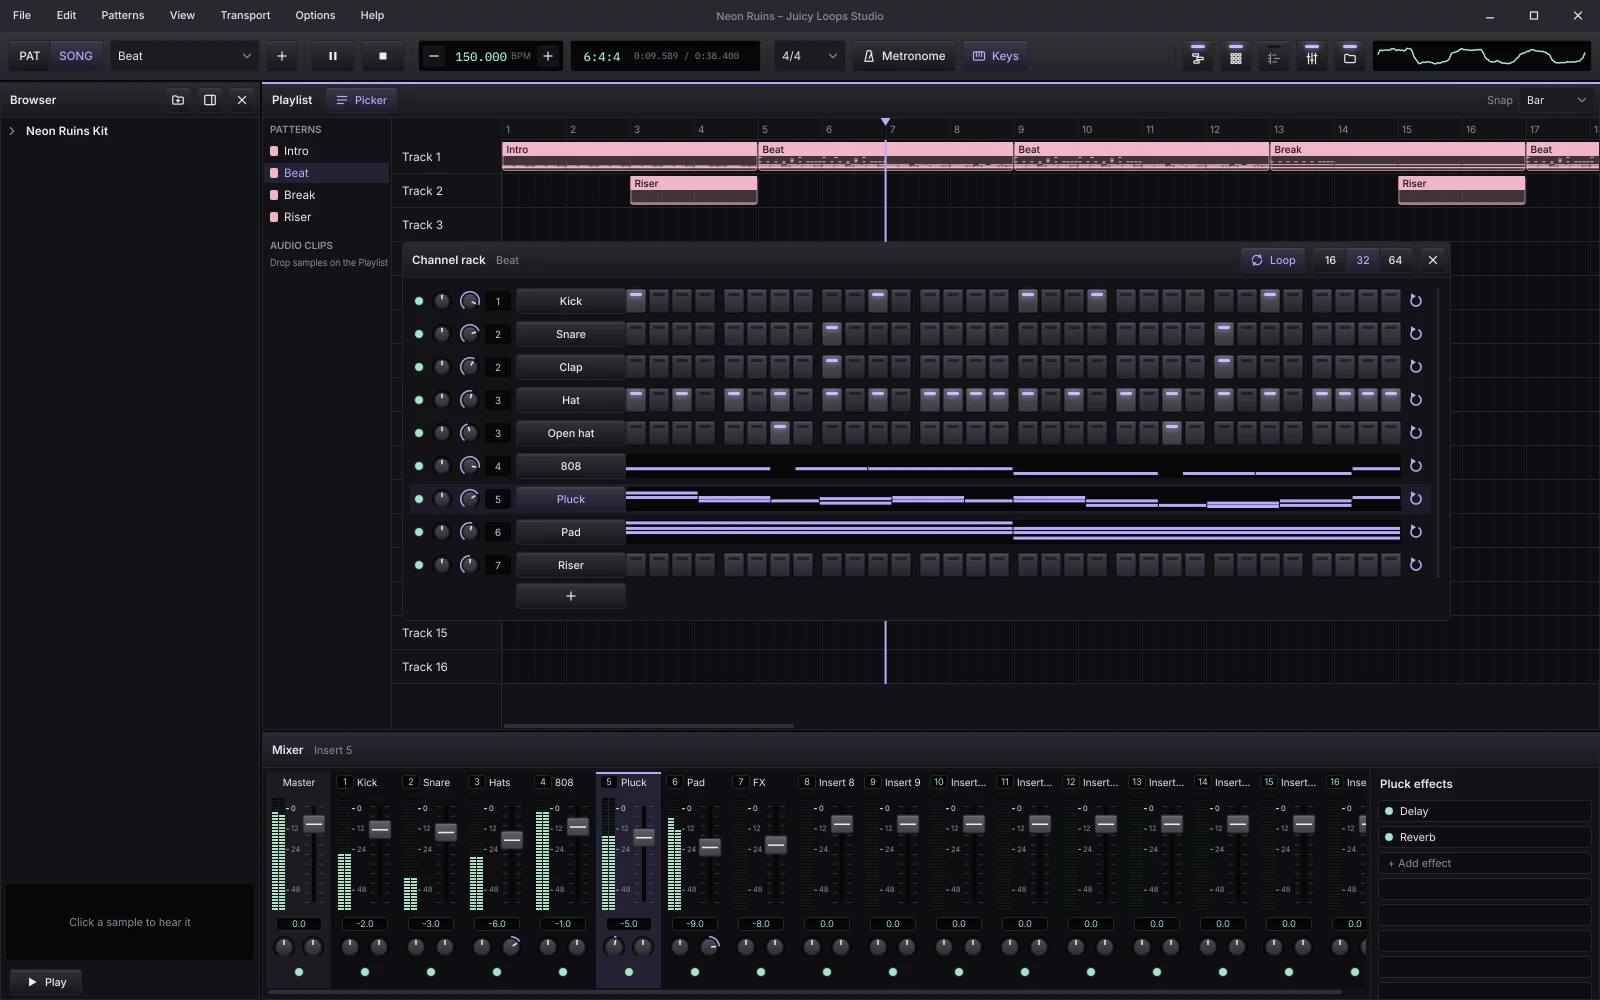
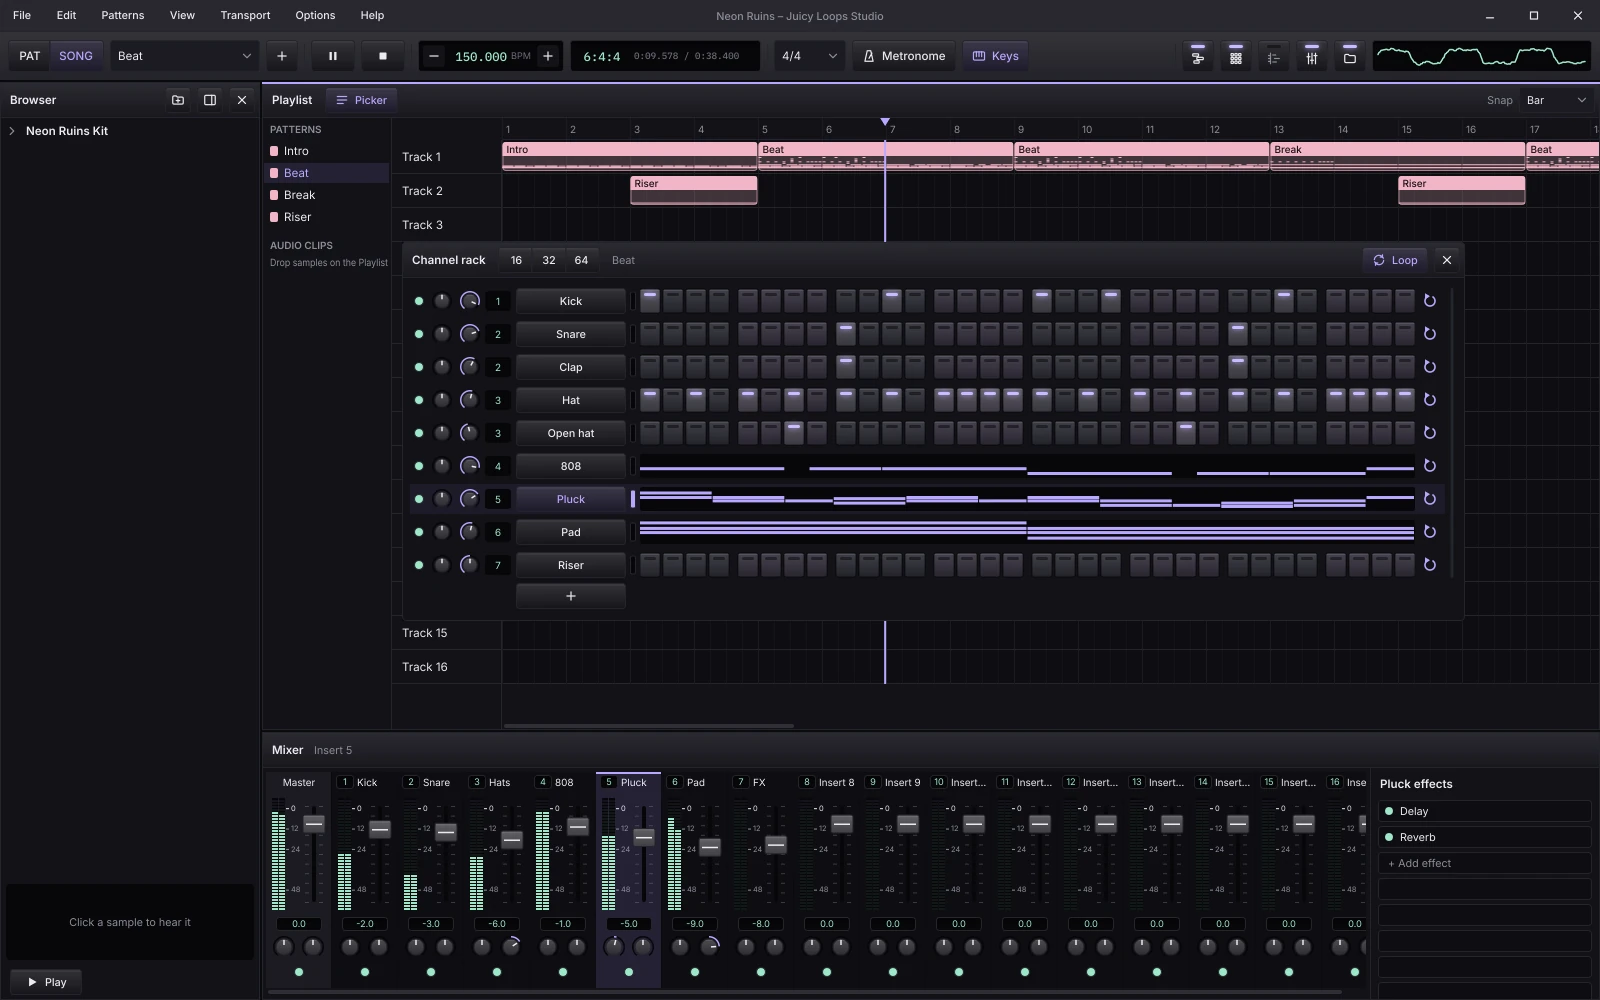
Channel Rack selection light, one-shot 16 | 32 | 64, clip outline over its name
The name buttons ran straight into the steps. As in FL, each row now has a thin light between
them, lit on the selected channel; clicking it selects the channel without opening its window.

16 | 32 | 64 no longer stay lit (the length handle sets any length, so a lit button was often
wrong) and moved to the left of the title bar, after "Channel rack", as the Piano Roll's scale
controls do. On a rack wider than the window, the title and those buttons stay in view like the
right-hand ones.

A selected Playlist clip's outline is drawn last, around its name bar too, so the bar no longer
looks pasted on top; the bar's top corners are rounded like the clip.

Screenshots retaken; AGENTS.md and docs/development.md now say every UI change retakes them.

Changed region(s): [[0.375, 0.248, 0.9062, 0.589], [0.875, 0.031, 0.9688, 0.062]]

diff --git a/src/ui/channel_rack.cpp b/src/ui/channel_rack.cpp
@@ -26,15 +26,44 @@ constexpr int handleWidth = 12; // the length handle after the last step column
 constexpr int stepMargin = 3;   // above and below the step keys (and a note preview)
 
 // A row, left to right (see ChannelRow::resized): mute LED, pan and volume knobs, mixer track,
-// name, loop switch, steps.
-constexpr int columnGap = 4;  // after the LED, each knob and the mixer track
-constexpr int loopWidth = 30; // a row's loop switch, after the steps, with room around it
+// name, selection light, steps, loop switch.
+constexpr int columnGap = 4;       // after the LED, each knob and the mixer track
+constexpr int selectionWidth = 14; // the selection light with room on both sides
+constexpr int loopWidth = 30;      // a row's loop switch, after the steps, with room around it
 constexpr int nameX = metrics::ledWidth + columnGap + 2 * (metrics::knobSize + columnGap) +
                       metrics::insertWidth + columnGap;
 // Everything in a row except the steps.
-constexpr int rowFixedWidth = nameX + metrics::nameWidth + loopWidth;
+constexpr int rowFixedWidth = nameX + metrics::nameWidth + selectionWidth + loopWidth;
 
 } // namespace
+
+// ------------------------------------------------------------------------------- SelectionLed
+
+void SelectionLed::setOn(bool shouldBeOn)
+{
+    if (on != shouldBeOn)
+    {
+        on = shouldBeOn;
+        repaint();
+    }
+}
+
+void SelectionLed::paint(juce::Graphics& g)
+{
+    const auto& c = currentTheme().colours;
+    const auto led = getLocalBounds().toFloat().withSizeKeepingCentre(5.0f, 18.0f);
+    // Unlit, a dark recessed lamp with a rim, like the mute light.
+    g.setColour(colour(on ? c.accent : c.display));
+    g.fillRoundedRectangle(led, 1.5f);
+    g.setColour(colour(on ? c.outline : c.ledOff));
+    g.drawRoundedRectangle(led, 1.5f, 1.0f);
+}
+
+void SelectionLed::mouseDown(const juce::MouseEvent&)
+{
+    if (onClick)
+        onClick();
+}
 
 // ---------------------------------------------------------------------------------- InsertBox
 
@@ -375,6 +404,7 @@ ChannelRow::ChannelRow(ChannelRack& owner, model::ChannelId channel) : rack(owne
     setUpKnobs();
     setUpInsert();
     setUpName();
+    setUpSelectionLed();
     setUpLoop();
     setUpSteps();
 }
@@ -470,6 +500,14 @@ void ChannelRow::setUpName()
     addAndMakeVisible(name);
 }
 
+void ChannelRow::setUpSelectionLed()
+{
+    selectionLed.setTooltip("Selected channel: the Piano Roll edits it, the Browser loads into it. "
+                            "Click to select");
+    selectionLed.onClick = [this] { rack.select(id); };
+    addAndMakeVisible(selectionLed);
+}
+
 void ChannelRow::setUpLoop()
 {
     loop.setTooltip("Loop this channel: repeat its notes when the pattern is longer");
@@ -525,6 +563,7 @@ void ChannelRow::update(const model::Channel& channel, const model::Project& pro
     insert.setValue(channel.mixerTrack);
     const bool isSelected = project.selectedChannel == channel.id;
     name.setToggleState(isSelected, juce::dontSendNotification);
+    selectionLed.setOn(isSelected);
     if (isSelected != selected)
     {
         selected = isSelected;
@@ -581,6 +620,7 @@ void ChannelRow::resized()
     insert.setBounds(area.removeFromLeft(metrics::insertWidth));
     area.removeFromLeft(columnGap);
     name.setBounds(area.removeFromLeft(metrics::nameWidth).reduced(0, 2));
+    selectionLed.setBounds(area.removeFromLeft(selectionWidth));
     loop.setBounds(area.removeFromRight(loopWidth)); // at the end of the row
     steps.setBounds(area);
 }
@@ -923,9 +963,7 @@ void ChannelRack::refresh()
         rows[i]->update(*shown[i], project);
 
     loopButton.setToggleState(project.loopChannels, juce::dontSendNotification);
-    const int gridSteps = project.current().gridSteps;
-    for (std::size_t i = 0; i < lengthButtons.size(); ++i)
-        lengthButtons[i].setToggleState(gridSteps == (16 << i), juce::dontSendNotification);
+    repaint(subtitleArea); // the pattern's name
     resized(); // places new rows; the step area (and the handle) follow the pattern length
 
     if (onSizeChanged)
@@ -946,10 +984,17 @@ int ChannelRack::preferredHeight() const
 
 void ChannelRack::paint(juce::Graphics& g)
 {
-    // Title bar: "Channel rack" and the pattern being edited.
-    paintFloatingPanel(g, *this, "Channel rack",
-                       juce::String::fromUTF8(doc.project().current().name.c_str()),
-                       loopButton.getX() - metrics::controlGap);
+    // Title bar: "Channel rack", 16 | 32 | 64, then the pattern being edited, all in the part
+    // that's in view (see resized()).
+    paintFloatingPanel(g, *this, {}, {}, 0);
+    const auto& t = currentTheme();
+    g.setColour(colour(t.colours.text));
+    g.setFont(semiboldFont(metrics::textLarge));
+    g.drawText("Channel rack", titleArea, juce::Justification::centredLeft, true);
+    g.setColour(colour(t.colours.textDim));
+    g.setFont(juce::FontOptions(metrics::textBody));
+    g.drawText(juce::String::fromUTF8(doc.project().current().name.c_str()), subtitleArea,
+               juce::Justification::centredLeft, true);
     paintFloatingBorder(g, *this);
 }
 
@@ -976,21 +1021,36 @@ void ChannelRack::paintOverChildren(juce::Graphics& g)
 void ChannelRack::resized()
 {
     auto bounds = getLocalBounds();
-    // A long pattern can make the rack wider than the window: the header's controls stay at the
-    // right edge of the part that's in view.
+    // A long pattern can make the rack wider than the window: the header (title and controls)
+    // stays within the part that's in view.
     constexpr int minHeaderWidth = 300;
     auto headerArea = bounds.removeFromTop(headerHeight);
     if (!movableArea.isEmpty())
+    {
         headerArea.setRight(
             std::min(getWidth(), std::max(minHeaderWidth, movableArea.getRight() - getX())));
+        headerArea.setLeft(
+            std::clamp(movableArea.getX() - getX(), 0, headerArea.getRight() - minHeaderWidth));
+    }
     HeaderLayout header(headerArea);
     closeButton.setBounds(header.fromRight(metrics::controlHeight));
-    // 16 | 32 | 64 as one segmented control: the segments touch.
+    loopButton.setBounds(header.fromRight(loopButton.preferredWidth(metrics::controlHeight)));
+    // Right after the title: 16 | 32 | 64 as one segmented control (the segments touch), then
+    // the pattern's name.
+    const auto oldTitle = titleArea;
+    titleArea = header
+                    .fromLeft(textWidth(semiboldFont(metrics::textLarge), "Channel rack") +
+                              metrics::controlGap)
+                    .withY(headerArea.getY())
+                    .withHeight(headerHeight);
     const int segment = buttonWidth("64", metrics::controlHeight);
-    auto lengths = header.fromRight(3 * segment);
+    auto lengths = header.fromLeft(3 * segment);
     for (auto& button : lengthButtons)
         button.setBounds(lengths.removeFromLeft(segment));
-    loopButton.setBounds(header.fromRight(loopButton.preferredWidth(metrics::controlHeight)));
+    header.fromLeft(0); // a gap before the pattern's name like the one after the title
+    subtitleArea = header.remaining();
+    if (titleArea != oldTitle) // moved: the title and the pattern's name are painted, not children
+        repaint(headerArea.withX(0).withWidth(getWidth()));
 
     auto area = bounds.reduced(padding);
     const int rowsTop = area.getY();

diff --git a/src/ui/playlist.cpp b/src/ui/playlist.cpp
@@ -31,26 +31,32 @@ juce::Colour audioClipColour(const theme::Theme& t)
 // outlined in it, a solid name bar on top, and the notes or waveform in the colour itself.
 constexpr float nameBarHeight = 14.0f;
 
-void paintClipBody(juce::Graphics& g, juce::Rectangle<float> bounds, juce::Colour clipColour,
-                   bool selected)
+void paintClipBody(juce::Graphics& g, juce::Rectangle<float> bounds, juce::Colour clipColour)
 {
     const float radius = metrics::cornerRadius;
     g.setColour(clipColour.withAlpha(0.22f));
     g.fillRoundedRectangle(bounds, radius);
     g.setColour(clipColour.withAlpha(0.6f));
     g.drawRoundedRectangle(bounds.reduced(0.5f), radius, 1.0f);
-    if (selected)
-    {
-        g.setColour(colour(currentTheme().colours.accentAlt));
-        g.drawRoundedRectangle(bounds.reduced(1.0f), radius, 2.0f);
-    }
+}
+
+// The selection outline, drawn last so it runs around the name bar too instead of under it.
+void paintClipSelection(juce::Graphics& g, juce::Rectangle<float> bounds)
+{
+    g.setColour(colour(currentTheme().colours.accentAlt));
+    g.drawRoundedRectangle(bounds.reduced(1.0f), metrics::cornerRadius, 2.0f);
 }
 
 void paintClipName(juce::Graphics& g, juce::Rectangle<float> bar, juce::Colour clipColour,
                    const juce::String& name)
 {
+    // Rounded at the top like the clip, so the bar reads as part of it.
+    juce::Path shape;
+    shape.addRoundedRectangle(bar.getX(), bar.getY(), bar.getWidth(), bar.getHeight(),
+                              metrics::cornerRadius, metrics::cornerRadius, true, true, false,
+                              false);
     g.setColour(clipColour);
-    g.fillRect(bar);
+    g.fillPath(shape);
     g.setColour(colour(currentTheme().colours.clipText));
     g.setFont(mediumFont(metrics::textSmall));
     g.drawText(name, bar.reduced(4.0f, 0.0f), juce::Justification::centredLeft, true);
@@ -602,7 +608,7 @@ void PlaylistGrid::paintClip(juce::Graphics& g, const model::Clip& clip, bool se
         if (!g.getClipBounds().toFloat().intersects(bounds))
             return;
         const auto clipColour = audioClipColour(t);
-        paintClipBody(g, bounds, clipColour, selected);
+        paintClipBody(g, bounds, clipColour);
         juce::Graphics::ScopedSaveState state(g);
         g.reduceClipRegion(bounds.toNearestInt());
         auto body = bounds;
@@ -630,6 +636,8 @@ void PlaylistGrid::paintClip(juce::Graphics& g, const model::Clip& clip, bool se
                            std::max(1.0f, (high - low) * half));
             }
         }
+        if (selected)
+            paintClipSelection(g, bounds);
         return;
     }
     const auto* pattern = project.findPattern(clip.pattern);
@@ -641,7 +649,7 @@ void PlaylistGrid::paintClip(juce::Graphics& g, const model::Clip& clip, bool se
         return;
 
     const auto clipColour = colour(t.colours.clip);
-    paintClipBody(g, bounds, clipColour, selected);
+    paintClipBody(g, bounds, clipColour);
 
     juce::Graphics::ScopedSaveState state(g);
     g.reduceClipRegion(bounds.toNearestInt());
@@ -679,6 +687,8 @@ void PlaylistGrid::paintClip(juce::Graphics& g, const model::Clip& clip, bool se
         for (int r = patternSteps; r < clip.lengthInSteps; r += patternSteps)
             g.fillRect(bounds.getX() + view.xForStep(r), body.getY(), 1.0f, body.getHeight());
     }
+    if (selected)
+        paintClipSelection(g, bounds);
 }
 
 // ------------------------------------------------------------------------------------ Picker

diff --git a/src/ui/channel_rack.h b/src/ui/channel_rack.h
@@ -137,8 +137,24 @@ class StepGrid final : public juce::Component
     int lastPainted = -1; // the step the current press painted last
 };
 
+// A thin upright light between a channel's name and its steps: lit on the selected channel (the
+// one the Piano Roll edits and the Browser loads into), as in FL. Clicking it selects the channel
+// without showing its window.
+class SelectionLed final : public juce::Component, public juce::SettableTooltipClient
+{
+  public:
+    void setOn(bool shouldBeOn);
+    std::function<void()> onClick;
+
+    void paint(juce::Graphics& g) override;
+    void mouseDown(const juce::MouseEvent&) override;
+
+  private:
+    bool on = false;
+};
+
 // One channel's row in the rack, left to right: mute LED, pan and volume knobs, mixer track,
-// name button, loop switch and the steps. Its edits go through the rack.
+// name button, selection light, the steps and the loop switch. Its edits go through the rack.
 class ChannelRow final : public juce::Component
 {
   public:
@@ -159,6 +175,7 @@ class ChannelRow final : public juce::Component
     void setUpKnobs();
     void setUpInsert();
     void setUpName();
+    void setUpSelectionLed();
     void setUpLoop();
     void setUpSteps();
     // Applies `change` to this row's channel as an undoable edit.
@@ -174,6 +191,7 @@ class ChannelRow final : public juce::Component
     juce::Slider volume;
     InsertBox insert;
     juce::TextButton name;
+    SelectionLed selectionLed;
     LoopToggle loop;
     StepGrid steps;
     int knobGesture = 0;       // the gesture of the knob being dragged
@@ -297,11 +315,13 @@ class ChannelRack final : public juce::Component,
     std::vector<std::unique_ptr<ChannelRow>> rows;
     IconButton addButton{Icon::add};
     IconButton loopButton{Icon::loop, "Loop"}; // Project::loopChannels
-    // Steps shown: 16 | 32 | 64 (none lit after dragging the handle to another length).
+    // Show 16 | 32 | 64 steps: one-shot buttons, never lit, since the handle sets any length.
     std::array<juce::TextButton, 3> lengthButtons{juce::TextButton{"16"}, juce::TextButton{"32"},
                                                   juce::TextButton{"64"}};
     LengthHandle lengthHandle;
     IconButton closeButton{Icon::close};
+    juce::Rectangle<int> titleArea;    // "Channel rack", at the left of the part in view
+    juce::Rectangle<int> subtitleArea; // the pattern's name, after 16 | 32 | 64
     PanelDragger dragger;
     juce::Rectangle<int> movableArea;
     bool movingRack = false; // the current mouse press started on the title bar

diff --git a/docs/user-guide.md b/docs/user-guide.md
@@ -208,6 +208,7 @@ longer than 2 minutes are cut at 2 minutes (for now).
 | Left-click / drag over steps | Turn steps on (or off, if you started on a lit step); a step that's on lights the LED on its key |
 | Right-click / drag over steps | Turn steps off |
 | Click a channel name | Select the channel (the Piano Roll edits it), and show or hide its window: the plugin's for an instrument, the Sampler for a sample |
+| Light between the name and the steps | Lit on the selected channel; click it to select a channel without showing its window |
 | Right-click a channel name | Piano roll, show plugin / Sampler, Fill, **Clear** (remove its notes from this pattern), **Duplicate** (a copy of the channel right after it: its sample or plugin with the plugin's current settings, volume, pan and mixer track, without notes), rename, replace sample, use/replace an instrument plugin, delete (press **D** while the menu is open). Clear and Duplicate are also in View › Channel rack options, for the selected channel |
 | Delete (Channel Rack focused) | Delete the selected channel (Ctrl+Z brings it back) |
 | Ctrl+C / Ctrl+X / Ctrl+V (Channel Rack focused) | Copy or cut the selected channel's notes in this pattern; paste them into the selected channel (also another channel or pattern), replacing its notes |
@@ -220,7 +221,7 @@ longer than 2 minutes are cut at 2 minutes (for now).
 | Drop audio files below the rows | Add channels |
 | Click + | Add a channel: **Sample…** or **Instrument ›** (a plugin synth) |
 | Click a note preview | Open the Piano Roll for that channel |
-| 16 \| 32 \| 64 (title bar) | How many steps the rack shows. It doesn't grow by itself: a Piano Roll part longer than that still plays in full, but the rack shows only these steps |
+| 16 \| 32 \| 64 (title bar, after its name) | How many steps the rack shows (they don't stay lit: the handle sets other lengths too). It doesn't grow by itself: a Piano Roll part longer than that still plays in full, but the rack shows only these steps |
 | Drag the handle after the last step | Show more or fewer steps, 4 at a time |
 | **Loop** (title bar) | Loop on/off for the whole rack |
 | Circular arrow at the end of a row | Loop on/off for that channel |
@@ -241,7 +242,7 @@ again. Example: a 4-bar bass line with a 1-bar drum beat gives 4 bars of drums. 
 are greyed too. Because the loop length comes from the notes, a looping channel can't end with
 empty bars; switch its loop off (the arrow) to have it play once per pattern. Steps are always full
 size: at 32 or 64 steps the rack gets wider, past the window's edge if need be. Drag it by its
-title bar to see the rest; its Loop, 16 | 32 | 64 and close buttons stay in view.
+title bar to see the rest; its title, 16 | 32 | 64, Loop and close buttons stay in view.
 
 **Instrument plugins (VST3 / LV2).** Scan for plugins first (Options › Plugins…). Then add one
 with **+ › Instrument**, or turn an existing channel into one from its right-click menu. Its

diff --git a/docs/decisions.md b/docs/decisions.md
@@ -635,3 +635,11 @@ not). Older entries describe the project as it was then; later entries may super
   changes skip the build; a single always-running "CI result" job is the required check, so
   they can still merge (a skipped matrix job can't be required reliably). A `v*` tag publishes a
   release with the Linux and Windows packages.
+- 2026-10-31: **A selection light in each Channel Rack row; 16 | 32 | 64 are one-shot buttons**
+  (maintainer's request). The name buttons ran straight into the steps. As in FL, a thin light
+  now sits between them, lit on the selected channel; clicking it selects without opening the
+  channel's window. 16 | 32 | 64 no longer stay lit, since dragging the length handle sets any
+  length and a lit button would mostly be wrong; they moved to the left of the title bar, after
+  its name, as the Piano Roll's scale controls do. A selected Playlist clip's outline is drawn
+  last, around its name bar too, so the bar no longer looks pasted on top. Screenshots are
+  retaken with every UI change.

diff --git a/docs/development.md b/docs/development.md
@@ -96,8 +96,10 @@ Browser scene and the close-ups of dialogs stay stopped.
 The `features` scene takes the README's close-ups (`feature-*.webp`): the app at interface size
 200 % on a screen twice as large, so the layout is the one the other scenes see but the crops
 have twice the pixels and stay sharp shown large. Its crops are in interface pixels from a
-panel's or dialog's corner (`shot_part`), so a layout change may need them adjusted: check the
-images after a UI change.
+panel's or dialog's corner (`shot_part`), so a layout change may need them adjusted.
+
+Every UI change retakes the images (the commands above) in the same pull request, and the crops
+are checked, so the README always shows the app as it is.
 
 Sound can't be checked this way: export a WAV and analyse it (length, level, pitch), or listen.
 

diff --git a/docs/roadmap.md b/docs/roadmap.md
@@ -27,7 +27,7 @@ starting one.
   2. A screenshot script (sandbox, Xvfb, fixed window size) that regenerates every README image
      from that project, so the images never go stale; small WebP files in `docs/images/`.
      Done: `tools/screenshots.sh` (2026-10-30), with `--play` for shots while playing; the
-     images are in `docs/images/`. Redo them once the maintainer's UI changes are in.
+     images are in `docs/images/`, retaken with every UI change.
   3. More themes (direction to agree first), and a theme gallery image. Themes done (seven
      built in, 2026-10-30); the gallery is the script's `themes` scene.
   4. The README itself: hero shot, "Coming from FL Studio" (same concepts, same shortcuts),

diff --git a/AGENTS.md b/AGENTS.md
@@ -89,7 +89,8 @@ cmake --build build && ctest --test-dir build --output-on-failure
 clang-format -i <files you touched>
 ```
 
-- UI change: try it on Xvfb and look at the screenshots.
+- UI change: try it on Xvfb and look at the screenshots, then retake the README's images in the
+  same pull request (`docs/images/`, see `docs/development.md`).
 - Docs and `docs/decisions.md` updated; `docs/roadmap.md` if a milestone or backlog item moved.
 - Commits: a short summary line, then what changed and why. Keep the tree building at every
   commit.
